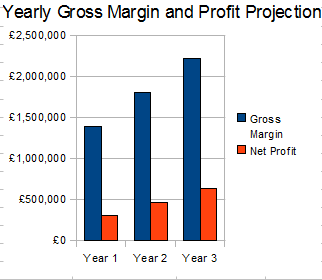
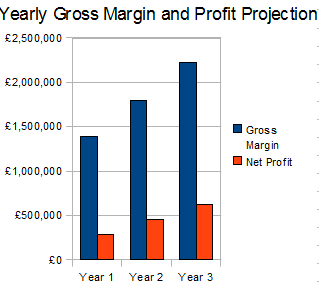
Financial plan section done

Changed region(s): [[0.0, 0.0, 1.0, 1.0], [0.9875, 0.6286, 1.0, 0.6571], [0.9875, 0.3429, 1.0, 0.3714]]

diff --git a/business.tex b/business.tex
@@ -266,9 +266,6 @@ We believe our product has several clear competitive advantages over other ice-c
 
 \section{Business Development Plan}
 
-
-
-
   % summary of detailed plan including
   % prioritisation
   % validation
@@ -366,22 +363,12 @@ installations
 
 Below are diagrams which show our initial start up costs from about 6 months ago.
 
-\includegraphics[scale=1.0]{startupFinance.png}
+\includegraphics[scale=1.0]{startupFinance.png} \\
 \includegraphics[scale=1.0]{startupFinanceData.png}
 
 Below our finance summary for the first six months of business is shown.
 
 \includegraphics[scale=1.0]{firstSixMonths.png}
-
-\subsection{Pricing Strategy}
-
-We plan to continue selling our ice-cream with the following pricing strategy.
-
-1 scoop £2.25
-2 scoops £3.85
-3 scoops £4.65
-Additional scoops +£1.00
-Extra toppings £0.30 each
 
 \subsection{Projected Profit and Loss}
 
@@ -391,102 +378,22 @@ The graphs below show our projected yearly gross margin and yearly profit.
 
 The graphs and data sheets below show our finance projections for the next 3 years. As you can see we are aiming to expand our business quickly in order to meet the huge amount of customer demand and interest we have recieved during the last 6 months.
 
-\includegraphics[scale=1.0]{grossMarginAndProfitProjection.png}
+\includegraphics[scale=1.0]{grossMarginAndProfitProjection.png} \\
 \includegraphics[scale=1.0]{proFormaProfit3Years.png}
 
 \subsection{Projected Cashflow}
 
-The data sheet below shows our cash flow projections for the next three years.
+The graph below shows our cash flow projections for the next year of business. As can be seen from the graph we are expecting the majority of sales to occur during the summer months at large festivals. As a business we believe this is a good thing as it means that we have the winter months to focus on product innovation, reasearch and finding potential clients.
 
+\includegraphics[scale=1.0]{cashFlowYear1.png}
 
+\subsection{Funding}
 
-\subsubsection{Pro Forma Cashflow}
-
-\subsection{Raising Capital}
-
-
-
-Last year financial summary
-
-Income
- - total sales       
- - grants/donations
- - interest from invested money
-
- Total income
-
- Expenditure
- - wages and salaries - 60 staff * £25 000
- - training - £50 000
- - rent, phone bills, utilities £10 000
- - advertising £20 000
- - taxes such as VAT, corporation tax and business rates
- - legal and professional fees £3 000
- - buying equipment and ingredients 
- - repairs and maintenance £2 000
- - working capital 
- - loan repayment
-
- Total expenditure = 
-
-Our members have decided on the course of action which needs to be taken financially in order for us to meet our goals.
-
-We are looking to raise £5 million in captial, to allow us to expand our business and develop our range of products.
-
-Main costs:
- - Stalls - LN2 tanks + supply - 50 litre liquid nitrogen tanks – around £1000 and Each litre of liquid nitrogen costs around £1.25
- - Transport vechicles
- - Storage space
- - Staff recruitment and wages
- - New London HQ - expand existing offices - £0.5 million
- - Ice cream ingredients
- - Marketing and website
-
-
-
-
-Each litre of ice-cream requires...
-
-Office and storage space in London will cost
-
-Ideally we would like the capital to be able to purchase equipment to
-produce our own liquid nitrogen from the air.(???)
-
-Use of Funds
-
-More stalls
-
-More marketing needed
-
-Need to grow beyond London
-
-Professional website and web prescence on social media sites
-
-
-SHARES
-
-Revenue from sales in the previous year was around £3.5 million. (total income without subtracting any expenses) 
-Gross profit of £2.9 million (difference between sales and cost of sales i.e. revenue - cost of goods)
-Net profit of £1.8 million (actual profit when all expenses are subtracted)
-
-%Graph to show financial growth over first year of business
-
-
-revenue
- - retail
-   licence
-   other sales
-
-profit/net income
- - gross
-   net
-   EBITDA
-   NPV
-
-costs
- ...
+In order to ensure that our plans for growth succeed we are aiming to raise £1 million from donations and investors. This money will help us to develop new and exciting products, aid in research and operational costs, and ensure that all our members receive a fair salary. Additionally it will enable us to recruit more staff to further increase our business capacity.
 
 \section{Risk Analysis \& Exit Strategy}
+
+%TODO
 
 Little risk as we are already an established business, struggling to keep up with customer demands.
 
